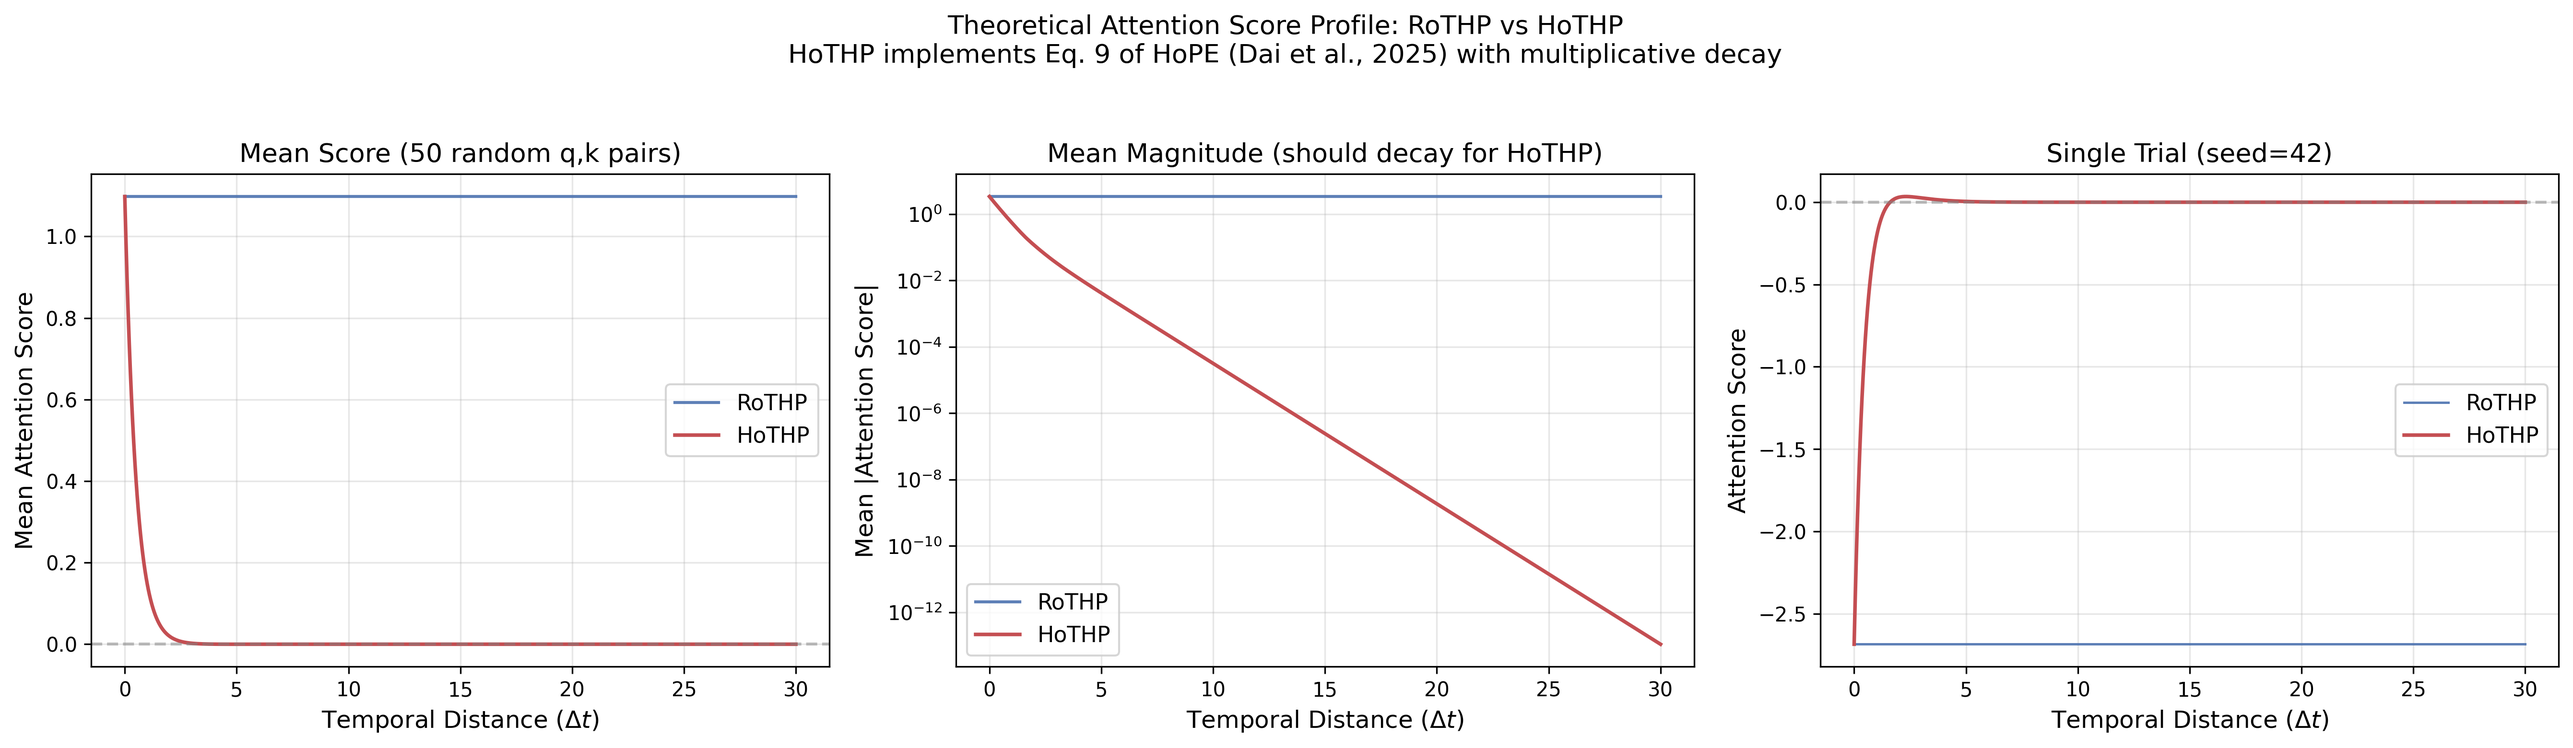
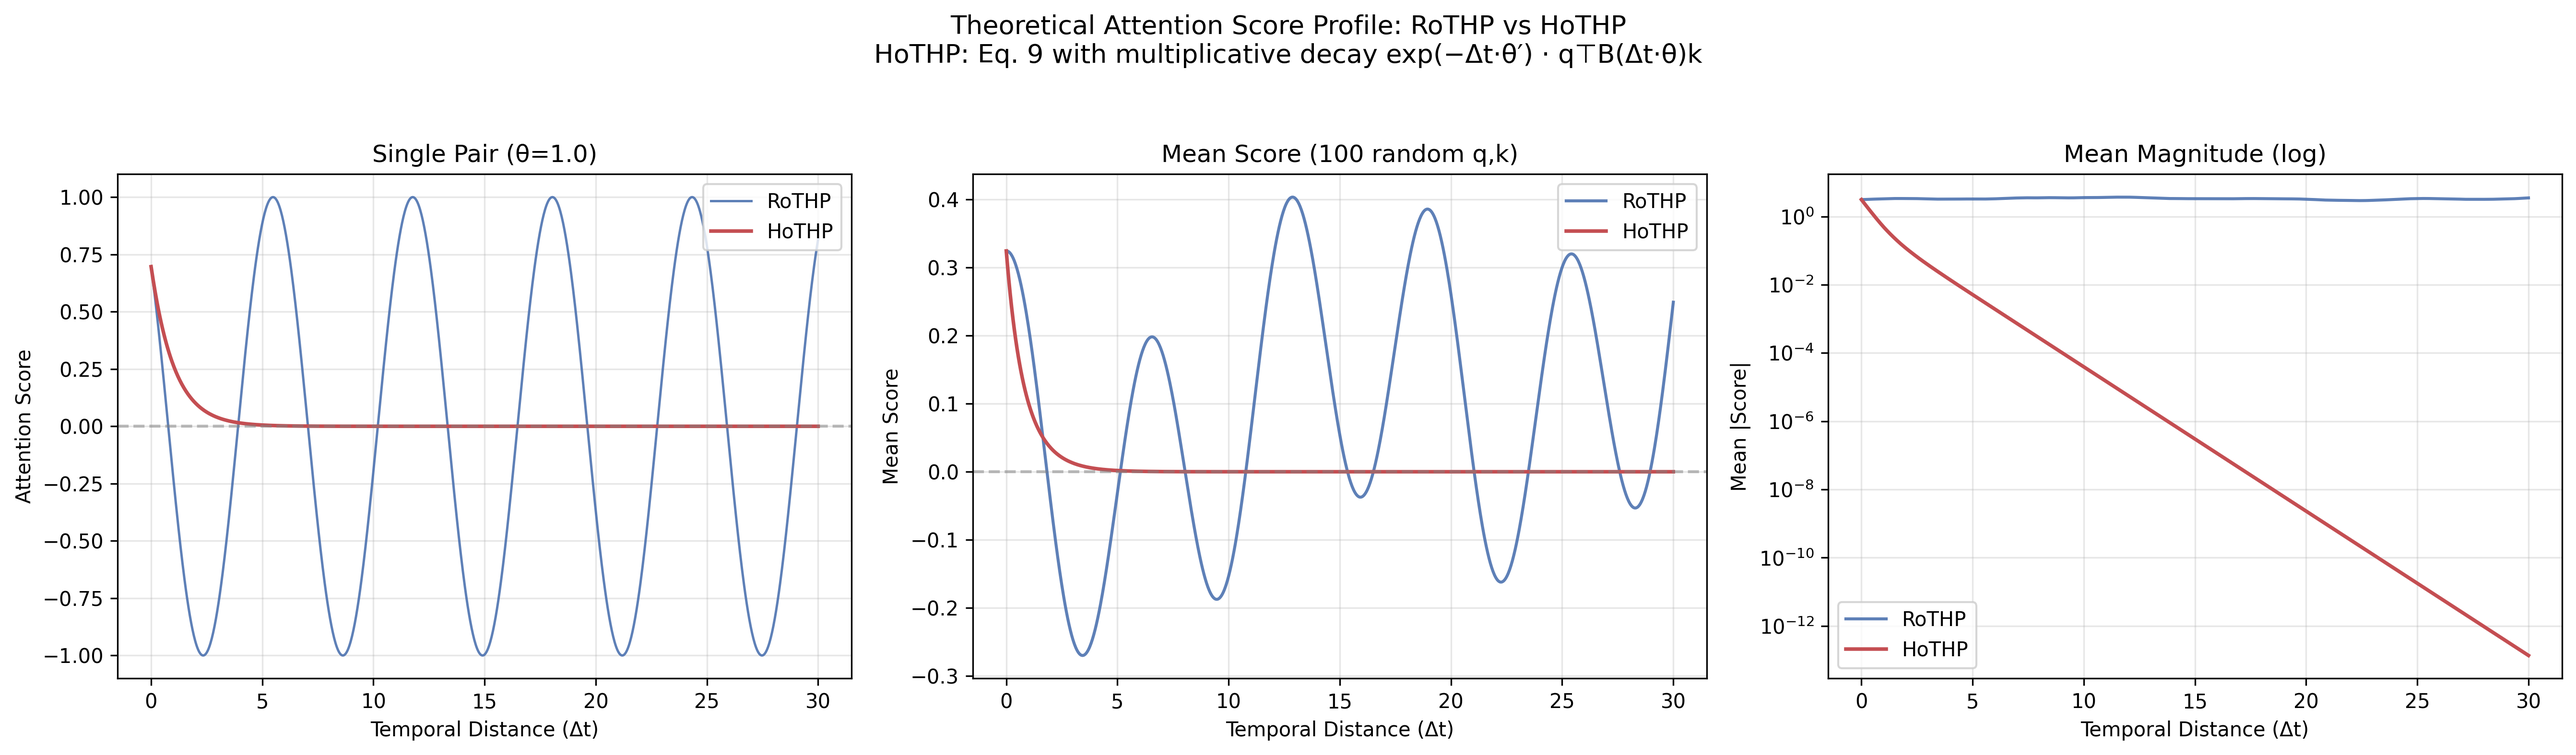
extrapolations fix - hothp

diff --git a/easy_tpp/model/torch_model/torch_hothp.py b/easy_tpp/model/torch_model/torch_hothp.py
@@ -48,67 +48,52 @@ def hyperbolic_attention(query, key, value, time_seqs, thetas, theta_prime,
                          mask=None, dropout=None):
     """Scaled dot-product attention with HoPE kernel (Eq. 9 of Dai et al., 2025).
 
-    Computes  score(m,n) = exp(-delta*theta') * (q_m^T B(delta*theta) k_n) / sqrt(d)
-    where delta = t_m - t_n, directly in the relative space.
+    Computes  score(m,n) = exp(-|d|*theta') * q^T B(d*theta) k / sqrt(dk)
+    where d = t_m - t_n, directly in the relative space.
 
-    B(delta*theta) is the Lorentz boost applied per 2D dimension pair:
-        B(a) = [[cosh(a), sinh(a)],
-                [sinh(a), cosh(a)]]
-
-    This avoids the numerical instability of computing B(m)*B'(n) from
-    large absolute positions, since delta is bounded by the sequence span.
+    To avoid overflow in float16 (AMP), we fuse the exponential decay
+    into cosh/sinh using the identities:
+        exp(-|d|*θ') * cosh(d*θ_j) = (exp(-|d|*(θ'-θ_j)) + exp(-|d|*(θ'+θ_j))) / 2
+        exp(-|d|*θ') * sinh(d*θ_j) = sign(d) * (exp(-|d|*(θ'-θ_j)) - exp(-|d|*(θ'+θ_j))) / 2
+    Since θ' > θ_j for all j (Eq. 12), both exponents are negative and
+    all intermediate values stay bounded.
     """
     B, H, L, d_k = query.shape
     half_d = d_k // 2
 
-    # Pairwise temporal distances: delta(m,n) = t_m - t_n
     t_m = time_seqs.unsqueeze(-1)      # [B, L, 1]
     t_n = time_seqs.unsqueeze(-2)      # [B, 1, L]
     delta = (t_m - t_n)                # [B, L, L]
 
-    # thetas: [half_d] -> [1, 1, 1, half_d]
-    th = thetas.view(1, 1, 1, -1)
+    abs_delta = delta.abs().unsqueeze(-1)              # [B, L, L, 1]
+    sign_delta = delta.sign().unsqueeze(-1)            # [B, L, L, 1]
+    th = thetas.view(1, 1, 1, -1)                     # [1, 1, 1, half_d]
 
-    # args: [B, L, L, half_d]  -- one value per (query, key, dimension-pair)
-    args = delta.unsqueeze(-1) * th
-    cosh_d = torch.cosh(args)          # [B, L, L, half_d]
-    sinh_d = torch.sinh(args)          # [B, L, L, half_d]
+    # Fused damped-cosh and damped-sinh (never overflows)
+    exp_slow = torch.exp(-abs_delta * (theta_prime - th))   # exp(-|d|*(θ'-θ_j))
+    exp_fast = torch.exp(-abs_delta * (theta_prime + th))   # exp(-|d|*(θ'+θ_j))
 
-    # Split Q, K into even/odd pairs
+    dcosh = (exp_slow + exp_fast) * 0.5                     # [B, L, L, half_d]
+    dsinh = sign_delta * (exp_slow - exp_fast) * 0.5        # [B, L, L, half_d]
+
     q1 = query[:, :, :, 0::2]         # [B, H, L, half_d]
     q2 = query[:, :, :, 1::2]
     k1 = key[:, :, :, 0::2]
     k2 = key[:, :, :, 1::2]
-
-    # For each query position m and key position n, compute:
-    #   q_m^T B(delta*theta) k_n
-    # = sum_j [ (q1_m*k1_n + q2_m*k2_n)*cosh(delta*theta_j)
-    #         + (q1_m*k2_n + q2_m*k1_n)*sinh(delta*theta_j) ]
-    #
-    # q1_m: [B, H, L_q, half_d]  x  k1_n: [B, H, L_k, half_d]
-    # We need the outer product over the L dimensions.
-    # q1_m[..., i, :] * k1_n[..., j, :] -> [B, H, L, L, half_d]
 
     q1_exp = q1.unsqueeze(3)           # [B, H, L, 1, half_d]
     q2_exp = q2.unsqueeze(3)
     k1_exp = k1.unsqueeze(2)           # [B, H, 1, L, half_d]
     k2_exp = k2.unsqueeze(2)
 
-    # Symmetric and anti-symmetric products
     sym  = q1_exp * k1_exp + q2_exp * k2_exp   # [B, H, L, L, half_d]
-    asym = q1_exp * k2_exp + q2_exp * k1_exp   # [B, H, L, L, half_d]
+    asym = q1_exp * k2_exp + q2_exp * k1_exp
 
-    # cosh_d, sinh_d: [B, L, L, half_d] -> [B, 1, L, L, half_d]
-    cosh_d = cosh_d.unsqueeze(1)
-    sinh_d = sinh_d.unsqueeze(1)
+    dcosh = dcosh.unsqueeze(1)         # [B, 1, L, L, half_d]
+    dsinh = dsinh.unsqueeze(1)
 
-    # Full dot product per (m, n) pair, summed over dimension pairs
-    scores = (sym * cosh_d + asym * sinh_d).sum(dim=-1)  # [B, H, L, L]
+    scores = (sym * dcosh + asym * dsinh).sum(dim=-1)  # [B, H, L, L]
     scores = scores / math.sqrt(d_k)
-
-    # Multiplicative decay: exp(-|delta| * theta')  (Eq. 9)
-    decay = torch.exp(-delta.abs().unsqueeze(1) * theta_prime)  # [B, 1, L, L]
-    scores = scores * decay
 
     if mask is not None:
         scores = scores.masked_fill(mask > 0, -1e4)
@@ -217,16 +202,16 @@ class HoTHP(THP):
         ])
 
     def _normalize_timestamps(self, time_seqs):
-        """Map raw timestamps so that the median inter-event gap is ~1.0.
+        """Map raw timestamps so that the mean inter-event gap is ~1.0.
 
-        This keeps cosh/sinh arguments bounded while preserving relative
-        temporal structure, analogous to the paper's integer positions.
+        This keeps the arguments to cosh/sinh bounded while preserving
+        relative temporal structure, analogous to integer positions.
         """
         t_min = time_seqs.min(dim=-1, keepdim=True).values
         t_shifted = time_seqs - t_min
         diffs = t_shifted[:, 1:] - t_shifted[:, :-1]
-        median_gap = diffs.median(dim=-1, keepdim=True).values.clamp(min=1e-6)
-        return t_shifted / median_gap
+        mean_gap = diffs.mean(dim=-1, keepdim=True).clamp(min=1e-6)
+        return t_shifted / mean_gap
 
     def forward(self, time_seqs, type_seqs, attention_mask):
         norm_times = self._normalize_timestamps(time_seqs)
